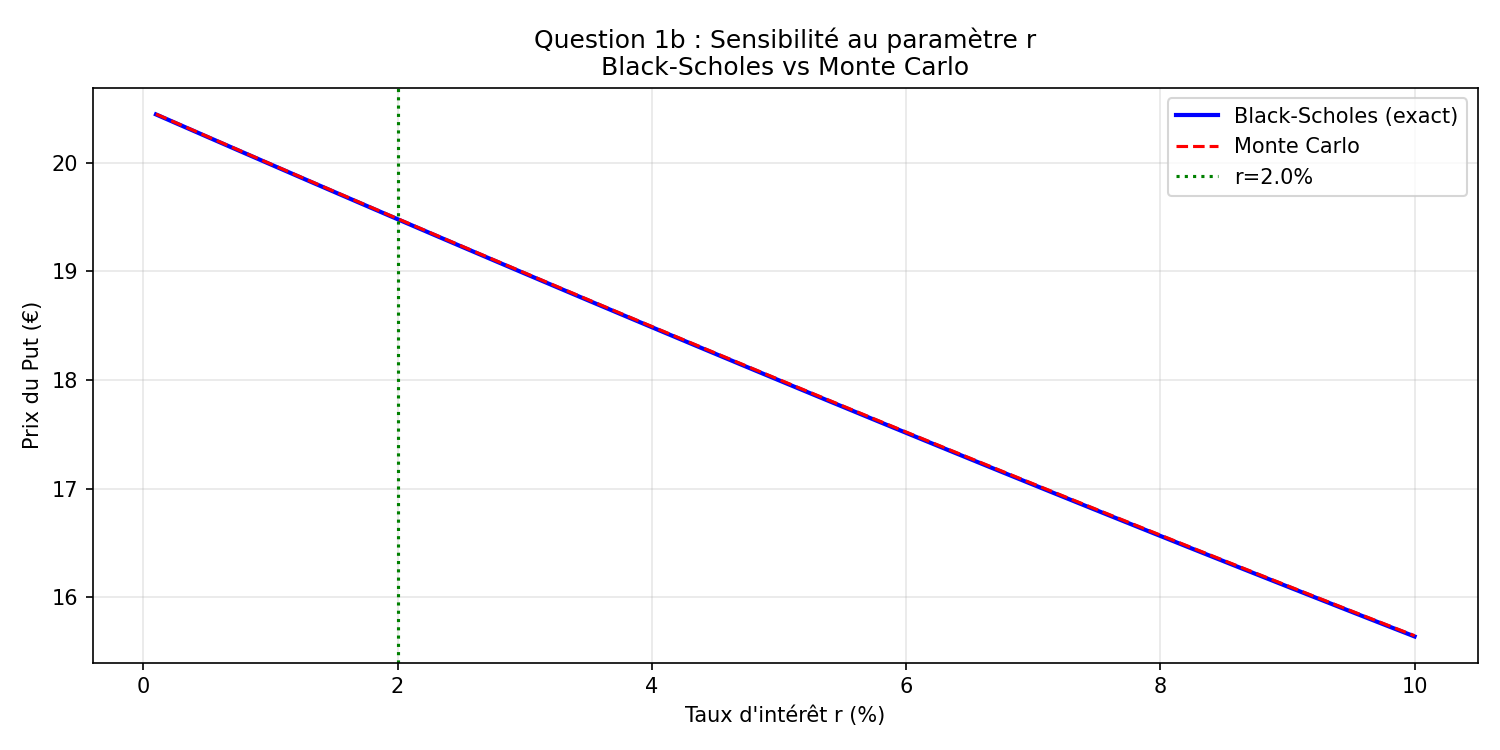
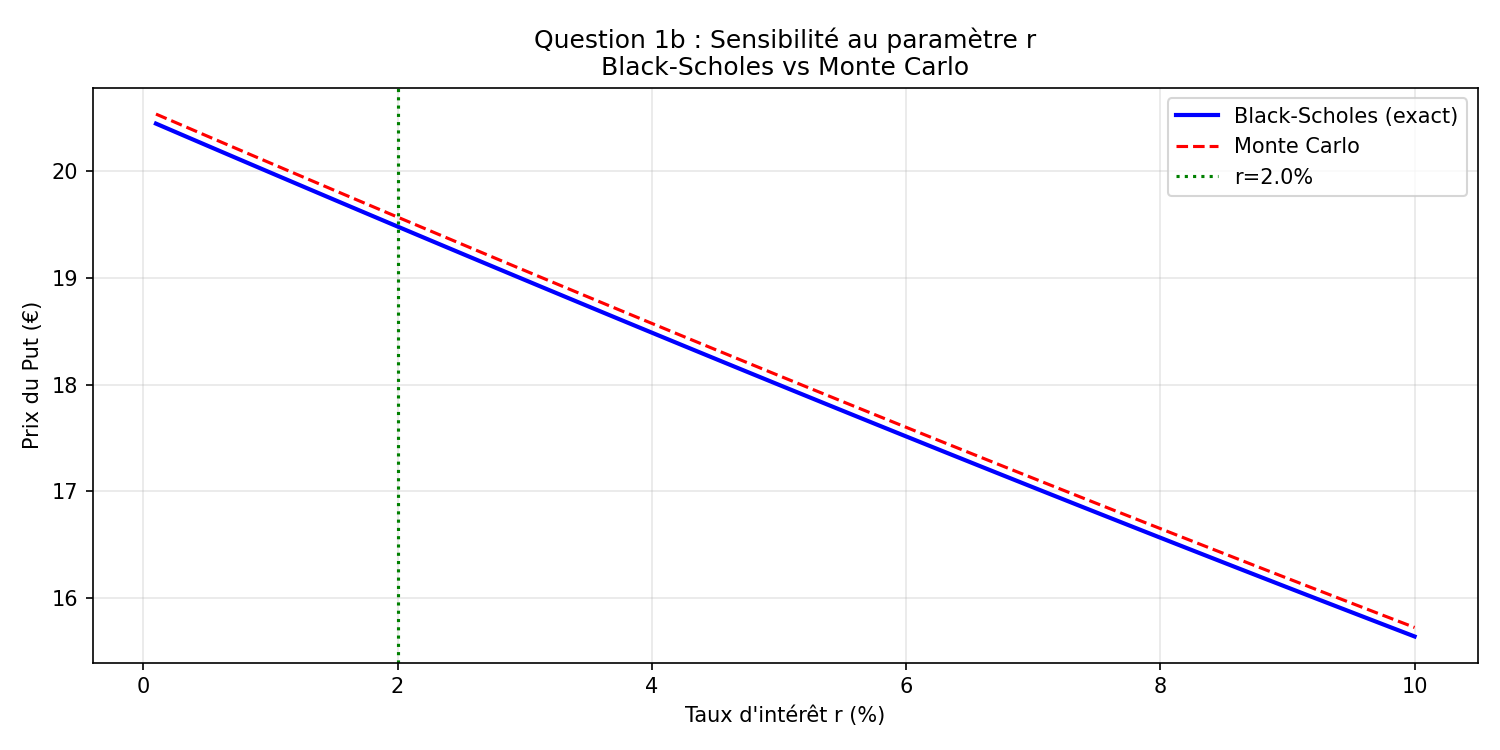
correction simu

diff --git a/q1b.py b/q1b.py
@@ -17,7 +17,7 @@ sigma = 0.20
 K     = 110
 T     = 0.5
 N     = 26
-n_sim = 10000
+n_sim = 50000
 
 # ---------------------------
 # Fonction Black-Scholes - European Put
